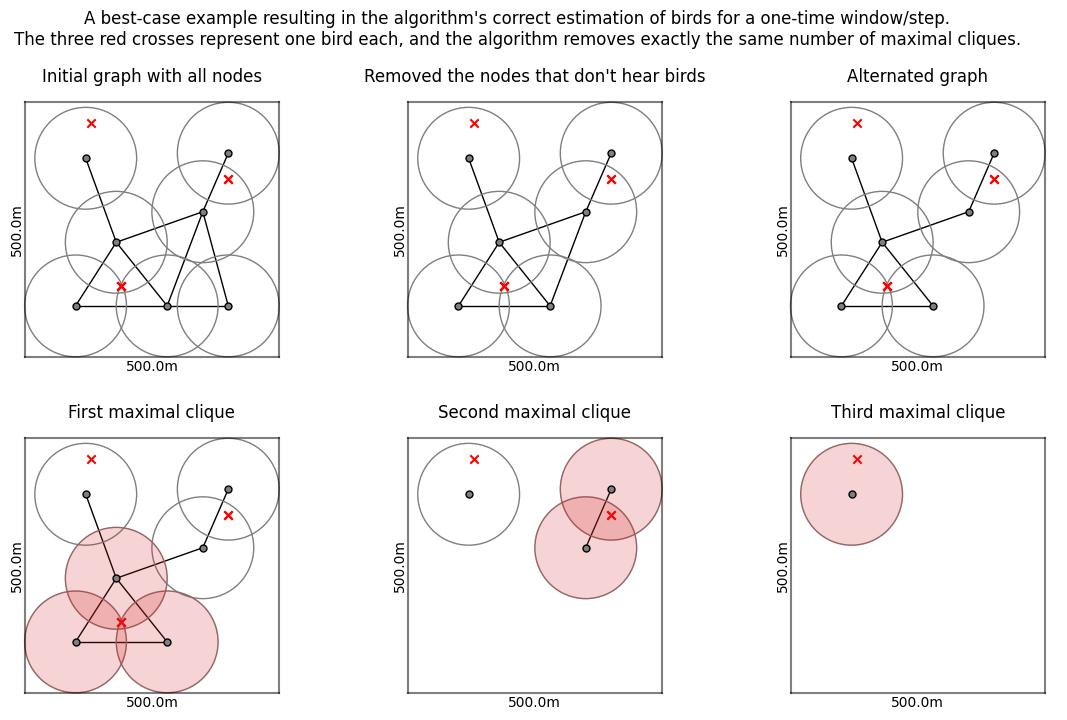
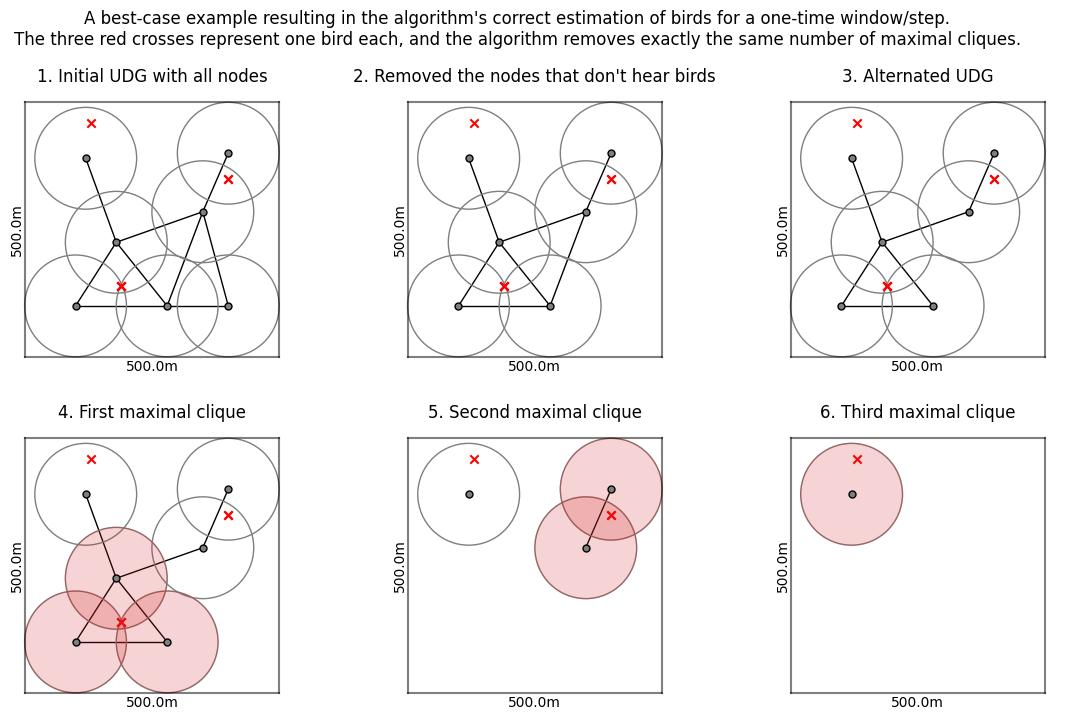
slightly changed the best-case example

diff --git a/src/examples/best-case_example_1.py b/src/examples/best-case_example_1.py
@@ -53,27 +53,27 @@ fig.suptitle("A best-case example resulting in the algorithm's correct estimatio
                 "The three red crosses represent one bird each, and the algorithm removes exactly the same number of maximal cliques.")
 
 # 0 initial graph
-ax[0, 0].set(title="Initial graph with all nodes")
+ax[0, 0].set(title="1. Initial UDG with all nodes")
 plot_graph(graph=graph, ax=ax[0, 0], fig=fig, with_edges=True, with_hearing_radii=True)
 plot_birds(df=df, ax=ax[0, 0])
 plot_bb(graph=graph, ax=ax[0, 0], x_lim=x_lim, y_lim=y_lim)
 
 # 1 subgraph
-ax[0, 1].set(title="Removed the nodes that don't hear birds")
+ax[0, 1].set(title="2. Removed the nodes that don't hear birds")
 subgraph = nx.Graph(graph.subgraph(df["node"].drop_duplicates()))
 plot_graph(graph=subgraph, ax=ax[0, 1], fig=fig, with_edges=True, with_hearing_radii=True)
 plot_birds(df=df, ax=ax[0, 1])
 plot_bb(graph=subgraph, ax=ax[0, 1], x_lim=x_lim, y_lim=y_lim)
 
 # 2 altered graph
-ax[0, 2].set(title="Alternated graph")
+ax[0, 2].set(title="3. Alternated UDG")
 altered_graph = alter_udg(subgraph.copy())
 plot_graph(graph=altered_graph, ax=ax[0, 2], fig=fig, with_edges=True, with_hearing_radii=True)
 plot_birds(df=df, ax=ax[0, 2])
 plot_bb(graph=altered_graph, ax=ax[0, 2], x_lim=x_lim, y_lim=y_lim)
 
 # 3 first clique
-ax[1, 0].set(title="First maximal clique")
+ax[1, 0].set(title="4. First maximal clique")
 clique = max(nx.find_cliques(G=altered_graph), key=len)
 plot_graph(graph=altered_graph, ax=ax[1, 0], fig=fig, with_edges=True, with_hearing_radii=True)
 plot_birds(df=df, ax=ax[1, 0])
@@ -85,7 +85,7 @@ altered_graph.remove_nodes_from(clique)
 df = df.loc[(df["node"] != clique[0]) & (df["node"] != clique[1]) & (df["node"] != clique[2])]
 
 # 4 second clique
-ax[1, 1].set(title="Second maximal clique")
+ax[1, 1].set(title="5. Second maximal clique")
 clique = max(nx.find_cliques(G=altered_graph), key=len)
 plot_graph(graph=altered_graph, ax=ax[1, 1], fig=fig, with_edges=True, with_hearing_radii=True)
 plot_birds(df=df, ax=ax[1, 1])
@@ -97,7 +97,7 @@ altered_graph.remove_nodes_from(clique)
 df = df.loc[(df["node"] != clique[0]) & (df["node"] != clique[1])]
 
 # 5 third clique
-ax[1, 2].set(title="Third maximal clique")
+ax[1, 2].set(title="6. Third maximal clique")
 clique = max(nx.find_cliques(G=altered_graph), key=len)
 plot_graph(graph=altered_graph, ax=ax[1, 2], fig=fig, with_edges=True, with_hearing_radii=True)
 plot_birds(df=df, ax=ax[1, 2])
